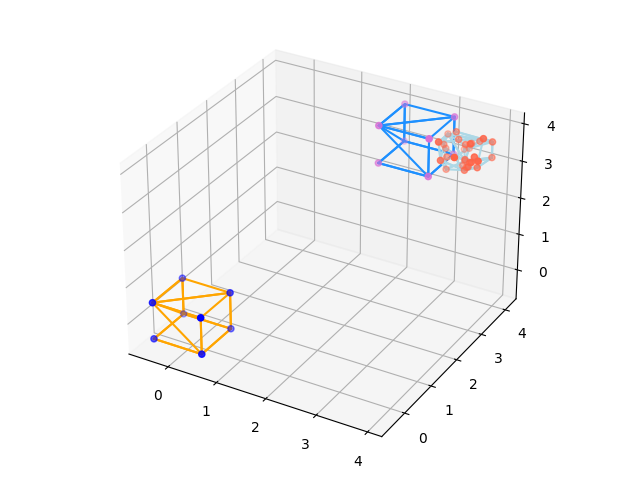
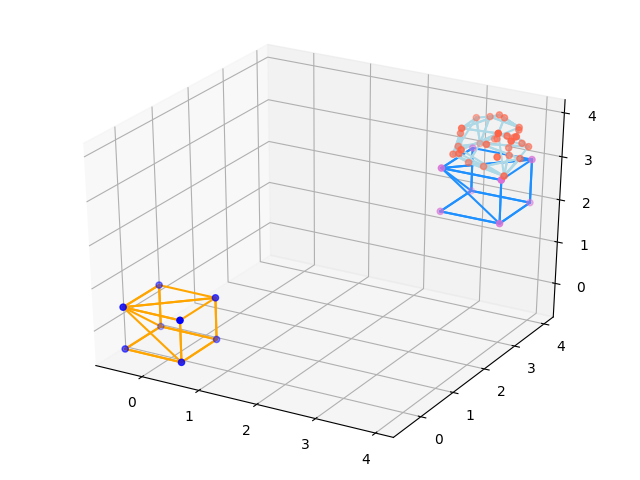
Hand

diff --git a/BilevelOptimizer.py b/BilevelOptimizer.py
@@ -1,10 +1,7 @@
 import torch
-import numpy as np
 from LineSearcher import LineSearcher
 from ConvexhullSettings import ConvexHullSettings
 from typing import Callable
-import matplotlib.pyplot as plt
-from convex_hulls import ConvexHulls
 
 # define pi in torch
 pi = torch.acos(torch.zeros(1)).item() * 2
@@ -32,90 +29,3 @@ class BilevelOptimizer(object):
             if self.line_searcher.grad_norm() < tolg:
                 print("Converged!")
                 break
-
-    def plot_obj(self):
-        fig = plt.figure()
-        plt.plot(self.objectives, marker='d')
-        plt.xlabel("iterations")
-        plt.ylabel("value of objective function")
-        fig.show()
-        fig.savefig('Objective_function_values.')
-
-    def plot_convex_hulls(self):
-        hull, hull2 = self.ch_settings.get_hulls()
-        theta = self.ch_settings.theta.detach().numpy()
-        fig = plt.figure()
-        ax = fig.add_subplot(111, projection='3d')
-        ax.scatter3D(hull.points[:, 0], hull.points[:, 1], hull.points[:, 2], c='blue')
-        for simplex1 in hull.simplices:
-            ax.plot3D(hull.points[simplex1, 0], hull.points[simplex1, 1], hull.points[simplex1, 2], 'orange')
-
-        hull.points += theta
-        ax.scatter3D(hull.points[:, 0], hull.points[:, 1], hull.points[:, 2], c='orchid')
-        for simplex1 in hull.simplices:
-            ax.plot3D(hull.points[simplex1, 0], hull.points[simplex1, 1], hull.points[simplex1, 2], 'dodgerblue')
-
-        ax.scatter3D(hull2.points[:, 0], hull2.points[:, 1], hull2.points[:, 2], c='tomato')
-        for simplex2 in hull2.simplices:
-            ax.plot3D(hull2.points[simplex2, 0], hull2.points[simplex2, 1], hull2.points[simplex2, 2], 'lightblue')
-        fig.show()
-        fig.savefig('Convex_hulls.png')
-
-    def plot_high_quality(self):
-        import plotly.graph_objects as go
-        hull, hull2 = self.ch_settings.get_hulls()
-        theta = self.ch_settings.theta.detach().numpy()
-        fig = go.Figure()
-        points1 = hull.points
-        fig.add_trace(go.Mesh3d(x=points1[:, 0],
-                                y=points1[:, 1],
-                                z=points1[:, 2],
-                                color='lightpink',
-                                opacity=0.5,
-                                legendgroup='Convex Hull1',
-                                name='Convex Hull1',
-                                alphahull=0,
-                                showlegend=True))
-        points2 = hull2.points
-        simplex2 = hull2.simplices
-        for i in range(simplex2.shape[0]):
-            if i == 0:
-                fig.add_trace(go.Mesh3d(x=points2[simplex2[i], 0],
-                                        y=points2[simplex2[i], 1],
-                                        z=points2[simplex2[i], 2],
-                                        color='tomato',
-                                        opacity=0.5,
-                                        legendgroup='Convex Hull2',
-                                        name='Convex Hull2',
-                                        showlegend=True))
-            else:
-                fig.add_trace(go.Mesh3d(x=points2[simplex2[i], 0],
-                                        y=points2[simplex2[i], 1],
-                                        z=points2[simplex2[i], 2],
-                                        color='tomato',
-                                        opacity=0.5,
-                                        legendgroup='Convex Hull2',
-                                        name='Convex Hull2',
-                                        showlegend=False))
-
-        points1 += theta
-        fig.add_trace(go.Mesh3d(x=points1[:, 0],
-                                y=points1[:, 1],
-                                z=points1[:, 2],
-                                color='dodgerblue',
-                                opacity=0.5,
-                                legendgroup='Convex Hull1',
-                                name='Convex Hull1',
-                                alphahull=0,
-                                showlegend=True))
-
-        fig.update_layout(scene_camera=dict(eye=dict(x=1.2, y=-1.6, z=1.0)),
-                          margin=dict(t=0, r=10, l=10, b=10),
-                          legend=dict(x=0.6, y=1),
-                          scene=dict(xaxis=dict(range=[0, 4]),
-                                     yaxis=dict(range=[0, 4]),
-                                     zaxis=dict(range=[0, 4])),
-                          scene_aspectmode='cube'
-                          )
-
-        fig.show(renderer='browser')

diff --git a/Plot.py b/Plot.py
@@ -1,0 +1,101 @@
+import matplotlib.pyplot as plt
+from BilevelOptimizer import BilevelOptimizer
+from copy import deepcopy
+
+
+class Plot(object):
+
+    def __init__(self, biOptimizer: BilevelOptimizer):
+        self.biOptimizer = biOptimizer
+        self.objectives = biOptimizer.objectives
+        self.ch_settings = biOptimizer.ch_settings
+
+    def plot_obj(self):
+        fig = plt.figure()
+        plt.plot(self.objectives, marker='d')
+        plt.xlabel("iterations")
+        plt.ylabel("value of objective function")
+        fig.show()
+        fig.savefig('Objective_function_values.')
+
+    def plot_convex_hulls(self):
+        hull, hull2 = self.ch_settings.get_hulls()
+        points1 = deepcopy(hull.points)
+        points2 = deepcopy(hull2.points)
+
+        theta = self.ch_settings.theta.detach().numpy()
+        fig = plt.figure()
+        ax = fig.add_subplot(111, projection='3d')
+        ax.scatter3D(points1[:, 0], points1[:, 1], points1[:, 2], c='blue')
+        for simplex1 in hull.simplices:
+            ax.plot3D(points1[simplex1, 0], points1[simplex1, 1], points1[simplex1, 2], 'orange')
+
+        points1 += theta
+        ax.scatter3D(points1[:, 0], points1[:, 1], points1[:, 2], c='orchid')
+        for simplex1 in hull.simplices:
+            ax.plot3D(points1[simplex1, 0], points1[simplex1, 1], points1[simplex1, 2], 'dodgerblue')
+
+        ax.scatter3D(points2[:, 0], points2[:, 1], points2[:, 2], c='tomato')
+        for simplex2 in hull2.simplices:
+            ax.plot3D(points2[simplex2, 0], points2[simplex2, 1], points2[simplex2, 2], 'lightblue')
+        fig.show()
+        fig.savefig('Convex_hulls.png')
+
+    def plot_high_quality(self):
+        import plotly.graph_objects as go
+        hull, hull2 = self.ch_settings.get_hulls()
+        theta = self.ch_settings.theta.detach().numpy()
+        fig = go.Figure()
+        points1 = deepcopy(hull.points)
+        fig.add_trace(go.Mesh3d(x=points1[:, 0],
+                                y=points1[:, 1],
+                                z=points1[:, 2],
+                                color='lightpink',
+                                opacity=0.5,
+                                legendgroup='Original Cube',
+                                name='Original Cube',
+                                alphahull=0,
+                                showlegend=True))
+        points2 = deepcopy(hull2.points)
+        simplex2 = hull2.simplices
+        for i in range(simplex2.shape[0]):
+            if i == 0:
+                fig.add_trace(go.Mesh3d(x=points2[simplex2[i], 0],
+                                        y=points2[simplex2[i], 1],
+                                        z=points2[simplex2[i], 2],
+                                        color='tomato',
+                                        opacity=0.5,
+                                        legendgroup='Convex Hull2',
+                                        name='Convex Hull2',
+                                        showlegend=True))
+            else:
+                fig.add_trace(go.Mesh3d(x=points2[simplex2[i], 0],
+                                        y=points2[simplex2[i], 1],
+                                        z=points2[simplex2[i], 2],
+                                        color='tomato',
+                                        opacity=0.5,
+                                        legendgroup='Convex Hull2',
+                                        name='Convex Hull2',
+                                        showlegend=False))
+
+        points1 += theta
+        fig.add_trace(go.Mesh3d(x=points1[:, 0],
+                                y=points1[:, 1],
+                                z=points1[:, 2],
+                                color='dodgerblue',
+                                opacity=0.5,
+                                legendgroup='Cube',
+                                name='Cube',
+                                alphahull=0,
+                                showlegend=True))
+
+        fig.update_layout(scene_camera=dict(eye=dict(x=1.2, y=-1.6, z=1.0)),
+                          margin=dict(t=0, r=10, l=10, b=10),
+                          legend=dict(x=0.6, y=1),
+                          # scene=dict(xaxis=dict(range=[0, 4]),
+                          #            yaxis=dict(range=[0, 4]),
+                          #            zaxis=dict(range=[0, 4])),
+                          scene_aspectmode='cube'
+                          )
+
+        fig.show(renderer='browser')

diff --git a/hand.py b/hand.py
@@ -146,7 +146,7 @@ def write_vtk(polydata, name):
 
 
 class Link:
-    def __init__(self, mesh, parent, transform, dhParams):
+    def __init__(self, mesh: trimesh.Trimesh, parent, transform, dhParams):
         self.mesh = mesh
         self.parent = parent
         self.transform = transform
@@ -347,6 +347,7 @@ class Hand(torch.nn.Module):
         # build links
         transform = transforms3d.affines.compose(np.zeros(3), np.eye(3, 3), [1, 1, 1])
         self.palm = Link(self.linkMesh[self.root[0].text[:-4]], None, transform, None)
+        print(self.root)
         for i in range(len(self.contacts[-1, 0])):
             self.palm.add_end_effector(self.contacts[-1, 0][i][0], self.contacts[-1, 0][i][1])
         chain_index = 0
@@ -452,8 +453,8 @@ class Hand(torch.nn.Module):
                 root = ET.parse(self.hand_path + '/eigen' + '/' + f).getroot()
                 self.origin_eigen = np.zeros((self.nr_dof()), dtype=np.float64)
                 self.dir_eigen = np.zeros((self.nr_dof(), 2), dtype=np.float64)
-                self.lb_eigen = np.zeros((2), dtype=np.float64)
-                self.ub_eigen = np.zeros((2), dtype=np.float64)
+                self.lb_eigen = np.zeros(2, dtype=np.float64)
+                self.ub_eigen = np.zeros(2, dtype=np.float64)
                 self.eg_num = 0
                 # read origin
                 for ORIGIN in root.iter('ORIGIN'):
@@ -663,30 +664,30 @@ class Hand(torch.nn.Module):
         if os.path.exists('limits'):
             shutil.rmtree('limits')
         os.mkdir('limits')
-        lb, ub = hand.lb_ub()
+        lb, ub = self.lb_ub()
 
         for i in range(len(lb)):
-            dofs = np.asarray([0.0 for i in range(hand.nr_dof())])
+            dofs = np.asarray([0.0 for i in range(self.nr_dof())])
             self.use_eigen = False
             dofs[i] = lb[i]
-            hand.forward_kinematics(np.zeros(self.extrinsic_size), dofs)
+            self.forward_kinematics(np.zeros(self.extrinsic_size), dofs)
             mesh_vtk = trimesh_to_vtk(self.draw(1, False))
             write_vtk(mesh_vtk, 'limits/lower%d.vtk' % i)
 
             dofs[i] = ub[i]
-            hand.forward_kinematics(np.zeros(self.extrinsic_size), dofs)
+            self.forward_kinematics(np.zeros(self.extrinsic_size), dofs)
             mesh_vtk = trimesh_to_vtk(self.draw(1, False))
             write_vtk(mesh_vtk, 'limits/upper%d.vtk' % i)
 
         if hasattr(self, 'origin_eigen'):
             for d in range(self.lb_eigen.shape[0]):
                 dofs = self.origin_eigen + self.dir_eigen[:, d] * self.lb_eigen[d]
-                hand.forward_kinematics(np.zeros(self.extrinsic_size), dofs)
+                self.forward_kinematics(np.zeros(self.extrinsic_size), dofs)
                 mesh_vtk = trimesh_to_vtk(self.draw(1, False))
                 write_vtk(mesh_vtk, 'limits/lowerEigen%d.vtk' % d)
 
                 dofs = self.origin_eigen + self.dir_eigen[:, d] * self.ub_eigen[d]
-                hand.forward_kinematics(np.zeros(self.extrinsic_size), dofs)
+                self.forward_kinematics(np.zeros(self.extrinsic_size), dofs)
                 mesh_vtk = trimesh_to_vtk(self.draw(1, False))
                 write_vtk(mesh_vtk, 'limits/upperEigen%d.vtk' % d)
 
@@ -860,7 +861,9 @@ def vtk_render(renderer, axes=True):
 
 
 if __name__ == '__main__':
-    hand_paths = ['hand/BarrettHand/', 'hand/ShadowHand/']
+    hand_paths = [
+        # 'hand/BarrettHand/',
+        'hand/ShadowHand/']
     scale = 0.01
     for path in hand_paths:
         use_eigen = True

diff --git a/LineSearcher.py b/LineSearcher.py
@@ -66,7 +66,7 @@ class LineSearcher(object):
                                                                  self.params_need_to_be_optimized,
                                                                  retain_graph=True,
                                                                  create_graph=True)[0]
-        self.hessian_matrix = self.hessian()
+        self.hessian_matrix = self.hessian().detach().numpy()
 
     def line_search(self, tol: float = 1e-10, scale=0.9, invscale=2.):
         """
@@ -88,14 +88,14 @@ class LineSearcher(object):
         grad = self.jacobian_matrix.reshape((1, -1))
         line_searching_direction = grad.T
         if self.method == 'Newton':
-            hessian = self.hessian_matrix
+            hessian = torch.tensor(self.hessian_matrix, dtype=data_type)
             # check if the hessian matrix is positive definite
             try:
                 np.linalg.cholesky(hessian.detach().numpy())
             except LinAlgError:
                 # if the hessian matrix is not positive definite, then make it positive definite.
                 print("The Hessian matrix is not positive definite. Now trying to correct it...")
-                hessian = self.make_it_positive_definite()
+                hessian = torch.tensor(self.make_it_positive_definite(), dtype=data_type)
             line_searching_direction = torch.inverse(hessian) @ line_searching_direction
 
         tmp_output, _ = self.update_output(line_searching_direction)
@@ -134,7 +134,7 @@ class LineSearcher(object):
 
     # TODO: fix this function later
     def make_it_positive_definite(self, scale=0.01):
-        eigenvalues, eigenvectors = np.linalg.eig(self.hessian_matrix.detach().numpy())
+        eigenvalues, eigenvectors = np.linalg.eig(self.hessian_matrix)
         l = np.linalg.norm(eigenvalues, ord=1)
         eigenvalues += scale * l
         self.hessian_matrix = eigenvectors @ np.diag(eigenvalues) @ np.linalg.inv(eigenvectors)
@@ -144,7 +144,7 @@ class LineSearcher(object):
             # if the hessian matrix is not positive definite, then make it positive definite.
             print("The Hessian matrix is not positive definite. Now trying to correct it...")
             self.hessian_matrix = self.make_it_positive_definite()
-        return torch.tensor(self.hessian_matrix, dtype=data_type)
+        return self.hessian_matrix
 
     def grad_norm(self):
         return torch.norm(self.jacobian_matrix)

diff --git a/Hand.py b/Hand.py
@@ -1,0 +1,20 @@
+import numpy as np
+import vtk
+from hand import Hand, vtk_render, vtk_add_from_hand, Link
+
+if __name__ == '__main__':
+    path = 'hand/ShadowHand/'
+    scale = 0.01
+    use_eigen = True
+    hand = Hand(path, scale, use_joint_limit=True, use_quat=True, use_eigen=use_eigen)
+    # if hand.use_eigen:
+    #     dofs = 1000 * np.ones(hand.eg_num)
+    # else:
+    #     dofs = 1000 * np.ones(hand.nr_dof())
+    # hand.forward_kinematics(1000 * np.ones(hand.extrinsic_size), dofs)
+    # hand.value_check(10)
+    # hand.grad_check(2)
+    # # hand.write_limits()
+    # renderer = vtk.vtkRenderer()
+    # vtk_add_from_hand(hand, renderer, scale)
+    # vtk_render(renderer, axes=False)

diff --git a/main.py b/main.py
@@ -5,6 +5,7 @@ from ConvexhullSettings import ConvexHullSettings
 from LineSearcher import LineSearcher
 from function import obj_fun
 from BilevelOptimizer import BilevelOptimizer
+from Plot import Plot
 
 
 # define pi in torch
@@ -33,6 +34,7 @@ if __name__ == "__main__":
 
     bioptimizer = BilevelOptimizer(ch_settings, line_searcher, obj_fun)
     bioptimizer.optimize(niters=10000)
-    bioptimizer.plot_obj()
-    bioptimizer.plot_convex_hulls()
-    # bioptimizer.plot_high_quality()
+    plotter = Plot(bioptimizer)
+    plotter.plot_convex_hulls()
+    plotter.plot_obj()
+    plotter.plot_high_quality()
